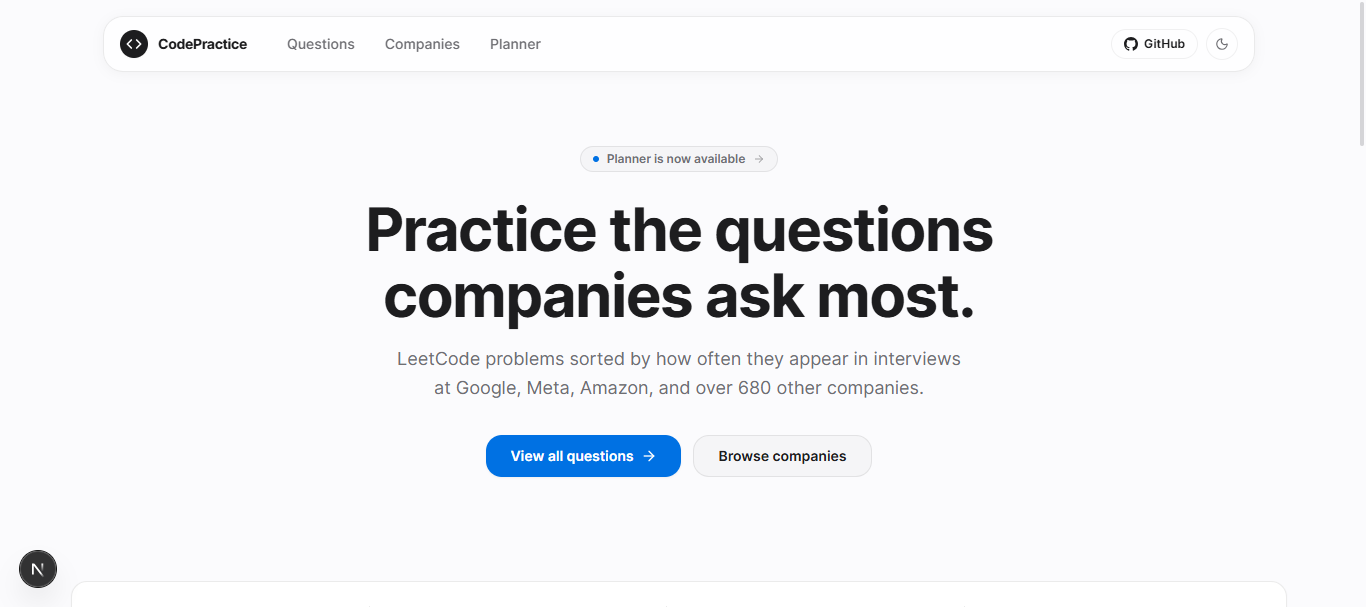
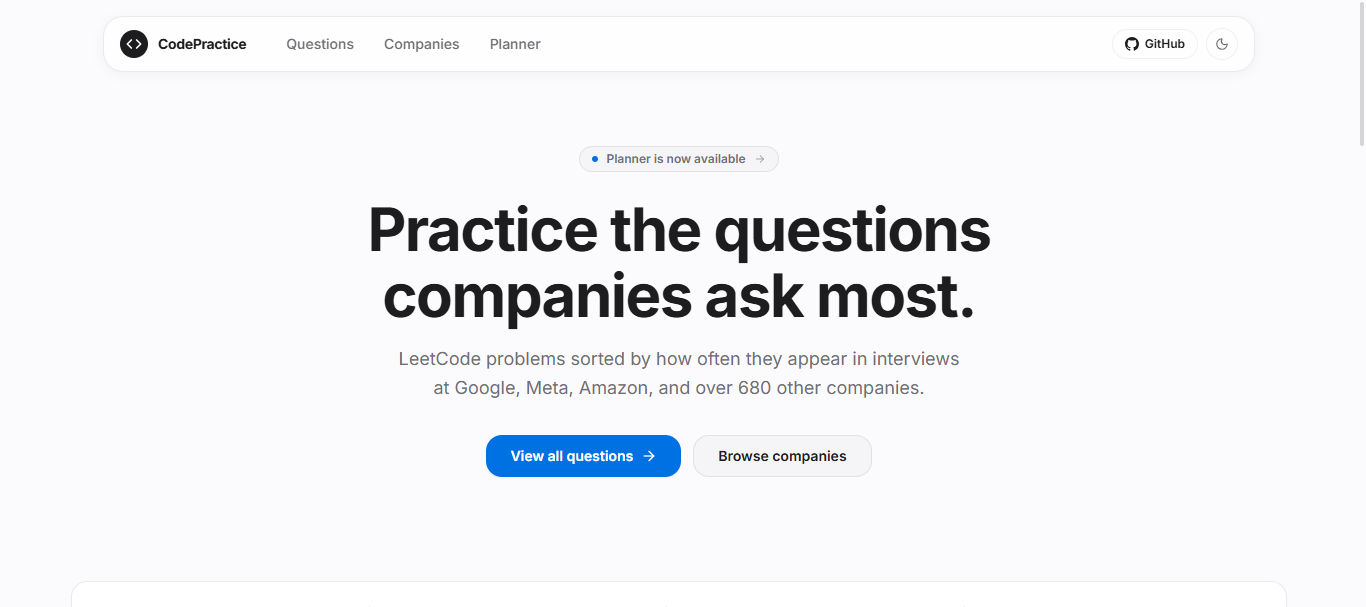
chore: navbar, planner

diff --git a/codepractice/components/Navbar.tsx b/codepractice/components/Navbar.tsx
@@ -2,16 +2,10 @@
 
 import Link from "next/link";
 import { usePathname } from "next/navigation";
-import { Code, Moon, Sun } from "lucide-react";
+import { Code, Moon, Sun, X } from "lucide-react";
 import { useTheme } from "next-themes";
-import { useEffect, useState } from "react";
+import { useEffect, useState, useRef } from "react";
 import { cn } from "@/lib/utils";
-
-const navItems = [
-  { name: "Questions", href: "/explore" },
-  { name: "Companies", href: "/companies" },
-  { name: "Planner",   href: "/planner" },
-];
 
 function GithubIcon({ className = "h-3.5 w-3.5" }: { className?: string }) {
   return (
@@ -25,15 +19,49 @@ export default function Navbar() {
   const pathname = usePathname();
   const { theme, setTheme } = useTheme();
   const [mounted, setMounted] = useState(false);
+  const [showRoadmap, setShowRoadmap] = useState(false);
+  const roadmapRef = useRef<HTMLDivElement>(null);
 
   useEffect(() => {
     setMounted(true);
   }, []);
 
+  // Close roadmap popover on route change
+  useEffect(() => {
+    setShowRoadmap(false);
+  }, [pathname]);
+
+  // Robust document-level click outside & escape listener
+  useEffect(() => {
+    if (!showRoadmap) return;
+
+    function handlePointerDown(e: MouseEvent | TouchEvent) {
+      if (roadmapRef.current && !roadmapRef.current.contains(e.target as Node)) {
+        setShowRoadmap(false);
+      }
+    }
+
+    function handleKeyDown(e: KeyboardEvent) {
+      if (e.key === "Escape") {
+        setShowRoadmap(false);
+      }
+    }
+
+    document.addEventListener("mousedown", handlePointerDown);
+    document.addEventListener("touchstart", handlePointerDown);
+    document.addEventListener("keydown", handleKeyDown);
+
+    return () => {
+      document.removeEventListener("mousedown", handlePointerDown);
+      document.removeEventListener("touchstart", handlePointerDown);
+      document.removeEventListener("keydown", handleKeyDown);
+    };
+  }, [showRoadmap]);
+
   return (
     <header className="fixed top-3 sm:top-4 inset-x-0 mx-auto z-50 w-[calc(100%-1.5rem)] sm:w-[calc(100%-2rem)] max-w-6xl transition-all">
       <nav className="h-13 sm:h-14 px-3 sm:px-4 flex items-center justify-between rounded-2xl border border-black/[0.08] dark:border-white/[0.12] bg-white/85 dark:bg-[#18181b]/85 backdrop-blur-xl shadow-[0_2px_12px_rgba(0,0,0,0.04)] dark:shadow-[0_4px_20px_rgba(0,0,0,0.35)] transition-colors">
-        {/* Left: Brand + Nav links immediately adjacent */}
+        {/* Left: Brand + Nav links */}
         <div className="flex items-center">
           <Link 
             href="/" 
@@ -48,23 +76,93 @@ export default function Navbar() {
           </Link>
 
           <div className="ml-4 sm:ml-7 flex items-center gap-0.5 sm:gap-1.5">
-            {navItems.map((item) => {
-              const isActive = pathname === item.href || (item.href !== "/" && pathname.startsWith(item.href));
-              return (
-                <Link
-                  key={item.name}
-                  href={item.href}
-                  className={cn(
-                    "px-3 py-1.5 rounded-xl text-xs sm:text-sm font-medium transition-colors select-none",
-                    isActive
-                      ? "text-foreground font-semibold bg-black/[0.05] dark:bg-white/[0.08]"
-                      : "text-muted-foreground hover:text-foreground hover:bg-black/[0.03] dark:hover:bg-white/[0.04]"
-                  )}
-                >
-                  {item.name}
-                </Link>
-              );
-            })}
+            <Link
+              href="/explore"
+              className={cn(
+                "px-3 py-1.5 rounded-xl text-xs sm:text-sm font-medium transition-colors select-none",
+                pathname === "/explore"
+                  ? "text-foreground font-semibold bg-black/[0.05] dark:bg-white/[0.08]"
+                  : "text-muted-foreground hover:text-foreground hover:bg-black/[0.03] dark:hover:bg-white/[0.04]"
+              )}
+            >
+              Questions
+            </Link>
+
+            {/* Roadmap element next to Questions */}
+            <div ref={roadmapRef} className="relative">
+              <button
+                onClick={() => setShowRoadmap(v => !v)}
+                className={cn(
+                  "px-2.5 sm:px-3 py-1.5 rounded-xl text-xs sm:text-sm font-medium transition-colors select-none flex items-center gap-1.5 cursor-pointer",
+                  showRoadmap || pathname === "/roadmap"
+                    ? "text-foreground font-semibold bg-black/[0.05] dark:bg-white/[0.08]"
+                    : "text-muted-foreground hover:text-foreground hover:bg-black/[0.03] dark:hover:bg-white/[0.04]"
+                )}
+                title="Roadmap (under development)"
+                aria-label="Roadmap (under development)"
+                aria-expanded={showRoadmap}
+              >
+                <span>Roadmap</span>
+                <span className="text-[10px] font-semibold px-1.5 py-0.2 rounded-full bg-secondary border border-border text-muted-foreground hidden sm:inline">
+                  Soon
+                </span>
+              </button>
+
+              {showRoadmap && (
+                <div className="absolute left-0 top-full mt-2 w-72 sm:w-80 apple-card p-4 shadow-2xl border border-border z-50 animate-in fade-in zoom-in-95 duration-150">
+                  <div className="space-y-2.5">
+                    <div className="flex items-center justify-between">
+                      <div className="flex items-center gap-1.5">
+                        <span className="h-2 w-2 rounded-full bg-signal-medium animate-pulse" />
+                        <span className="text-xs font-bold text-foreground">Roadmap</span>
+                      </div>
+                      <div className="flex items-center gap-1.5">
+                        <span className="text-[10px] font-semibold px-2 py-0.5 rounded-md bg-secondary text-muted-foreground border border-border">
+                          In progress
+                        </span>
+                        <button
+                          onClick={() => setShowRoadmap(false)}
+                          className="p-1 rounded-md text-muted-foreground hover:text-foreground hover:bg-secondary transition-colors"
+                          aria-label="Close roadmap dialog"
+                        >
+                          <X className="h-3 w-3" />
+                        </button>
+                      </div>
+                    </div>
+                    <p className="text-xs font-semibold text-foreground">
+                      Under development, more updates to come
+                    </p>
+                    <p className="text-xs text-muted-foreground leading-relaxed">
+                      We are working on dedicated practice modules for system design and computer science fundamentals.
+                    </p>
+                  </div>
+                </div>
+              )}
+            </div>
+
+            <Link
+              href="/companies"
+              className={cn(
+                "px-3 py-1.5 rounded-xl text-xs sm:text-sm font-medium transition-colors select-none",
+                pathname.startsWith("/companies") || pathname.startsWith("/company")
+                  ? "text-foreground font-semibold bg-black/[0.05] dark:bg-white/[0.08]"
+                  : "text-muted-foreground hover:text-foreground hover:bg-black/[0.03] dark:hover:bg-white/[0.04]"
+              )}
+            >
+              Companies
+            </Link>
+
+            <Link
+              href="/planner"
+              className={cn(
+                "px-3 py-1.5 rounded-xl text-xs sm:text-sm font-medium transition-colors select-none",
+                pathname.startsWith("/planner")
+                  ? "text-foreground font-semibold bg-black/[0.05] dark:bg-white/[0.08]"
+                  : "text-muted-foreground hover:text-foreground hover:bg-black/[0.03] dark:hover:bg-white/[0.04]"
+              )}
+            >
+              Planner
+            </Link>
           </div>
         </div>
 

diff --git a/codepractice/app/planner/page.tsx b/codepractice/app/planner/page.tsx
@@ -360,7 +360,7 @@ export default function PlannerPage() {
   return (
     <div className="flex flex-col h-[calc(100vh-5.5rem)] overflow-hidden bg-[#f7f7f8] dark:bg-background">
       {/* Sub-header */}
-      <div className="flex items-center justify-between px-4 py-2 bg-white dark:bg-[#111113] border-b border-border/60 shrink-0 gap-2">
+      <div className="flex items-center justify-between px-4 sm:px-6 py-2.5 bg-white dark:bg-[#111113] border-b border-border/60 shrink-0 gap-2 w-full">
         {/* Date Navigator */}
         <div className="flex items-center gap-1.5 relative min-w-0">
           <Calendar className="h-4 w-4 text-muted-foreground shrink-0" />
@@ -561,7 +561,7 @@ function NotesTile({
 // ── Shared: Panel card ─────────────────────────────────────────────────────
 function Panel({ title, icon, children, className, headerBg }: { title?: string, icon?: React.ReactNode, children: React.ReactNode, className?: string, headerBg?: string }) {
   return (
-    <div className={cn("flex flex-col rounded-xl border border-border/60 bg-white dark:bg-[#1c1c1e] shadow-sm overflow-hidden min-w-0", className)}>
+    <div className={cn("flex flex-col rounded-xl border border-border/60 bg-white dark:bg-[#1c1c1e] shadow-sm overflow-hidden min-w-0 w-full", className)}>
       {title && (
         <div className={cn("flex items-center gap-2 px-4 py-3 border-b border-border/40 shrink-0", headerBg ?? "bg-white/80 dark:bg-[#242428]")}>
           {icon}
@@ -581,8 +581,8 @@ function DayView({ cursor }: { cursor: Date }) {
   const dayNoteKey = `day-notes-${dateKey}`;
 
   return (
-    <div className="p-5 grid grid-cols-1 md:grid-cols-3 gap-4 items-start max-w-[1248px] mx-auto">
-      <div className="md:col-span-2 space-y-4">
+    <div className="p-4 sm:p-6 grid grid-cols-1 lg:grid-cols-3 gap-4 sm:gap-6 items-start w-full">
+      <div className="lg:col-span-2 space-y-4">
         <Panel title="Tasks" icon={<Calendar className="h-4 w-4 text-blue-500"/>} headerBg="bg-blue-50/60 dark:bg-blue-500/10">
           <TaskList date={dateKey}/>
         </Panel>
@@ -615,8 +615,8 @@ function WeekView({ cursor, cardSize }: { cursor: Date; cardSize: "compact" | "n
   const minCardH = cardSize === "compact" ? "min-h-[200px]" : cardSize === "spacious" ? "min-h-[380px]" : "min-h-[280px]";
 
   return (
-    <div className="p-4">
-      <div className={cn("grid gap-4 w-full min-w-0 auto-rows-min", gridCols)}>
+    <div className="p-4 sm:p-6 w-full">
+      <div className={cn("grid gap-4 sm:gap-5 w-full min-w-0 auto-rows-min", gridCols)}>
         {/* Weekly Priority */}
         <Panel title="Priority" headerBg="bg-rose-50/50 dark:bg-rose-500/10" className={minCardH}>
           <NotesTile noteKey={priorityKey}
@@ -650,8 +650,8 @@ function WeekView({ cursor, cardSize }: { cursor: Date; cardSize: "compact" | "n
 function MonthView({ cursor }: { cursor: Date }) {
   const mk = mmKey(cursor);
   return (
-    <div className="p-5 space-y-4 max-w-[1248px] mx-auto">
-      <div className="grid grid-cols-1 md:grid-cols-3 gap-4">
+    <div className="p-4 sm:p-6 space-y-4 sm:space-y-6 w-full">
+      <div className="grid grid-cols-1 md:grid-cols-3 gap-4 sm:gap-6">
         <Panel title="Focus" headerBg="bg-slate-50 dark:bg-secondary">
           <NotesTile noteKey={`month-focus-${mk}`}
             placeholder="What will you focus on this month?" minH="min-h-[200px]"/>
@@ -680,8 +680,8 @@ function QuarterView({ cursor }: { cursor: Date }) {
   const qs = qStart(cursor);
   const months = [0,1,2].map(i => addMonths(qs,i));
   return (
-    <div className="p-5 max-w-[1248px] mx-auto">
-      <div className="grid grid-cols-1 md:grid-cols-3 gap-4">
+    <div className="p-4 sm:p-6 w-full">
+      <div className="grid grid-cols-1 md:grid-cols-3 gap-4 sm:gap-6 w-full">
         {months.map(m => {
           const mk = mmKey(m);
           return (
@@ -704,15 +704,15 @@ function YearView({ cursor }: { cursor: Date }) {
   const months = Array.from({length:12}, (_,i) => new Date(year,i,1));
   const now    = new Date();
   return (
-    <div className="p-5 max-w-[1248px] mx-auto">
-      <div className="grid grid-cols-2 sm:grid-cols-3 lg:grid-cols-4 gap-4">
+    <div className="p-4 sm:p-6 w-full">
+      <div className="grid grid-cols-1 sm:grid-cols-2 md:grid-cols-3 lg:grid-cols-4 gap-4 sm:gap-5 w-full">
         {months.map(m => {
           const mk      = mmKey(m);
           const isCur   = m.getFullYear()===now.getFullYear() && m.getMonth()===now.getMonth();
           return (
             <div key={mk}
               className={cn(
-                "rounded-xl border bg-blue-50/50 dark:bg-blue-500/5 p-4 flex flex-col gap-2.5 min-h-[150px] transition-all hover:shadow-sm",
+                "rounded-xl border bg-blue-50/50 dark:bg-blue-500/5 p-4 sm:p-5 flex flex-col gap-2.5 min-h-[160px] transition-all hover:shadow-sm",
                 isCur ? "border-primary/40 ring-2 ring-primary/15" : "border-blue-100/80 dark:border-blue-500/10"
               )}
             >
@@ -806,7 +806,7 @@ function DashboardView({ cursor }: { cursor: Date }) {
           <button onClick={() => handleAdd('pomodoro')} className="w-full text-left px-3 py-2 text-sm hover:bg-secondary rounded-lg transition-colors">Pomodoro</button>
         </div>
       )}
-      <div ref={containerRef} className="flex-1 w-full h-[800px] overflow-y-auto p-4 pt-4">
+      <div ref={containerRef} className="flex-1 w-full h-full min-h-[700px] overflow-y-auto p-4 sm:p-6">
         {currentBlocks.length === 0 ? (
           <div className="flex flex-col items-center justify-center h-full text-muted-foreground pb-20 pointer-events-none">
             <div className="p-4 rounded-full bg-secondary mb-4 shadow-[0_1px_2px_rgba(0,0,0,0.02),0_4px_16px_rgba(0,0,0,0.03)] border border-black/5 dark:border-white/5">

diff --git a/codepractice/app/page.tsx b/codepractice/app/page.tsx
@@ -116,56 +116,6 @@ export default function LandingPage() {
         <FeatureCarousel />
       </section>
 
-      {/* Upcoming updates */}
-      <section className="max-w-7xl mx-auto px-4 sm:px-6 lg:px-8 space-y-6">
-        <div className="text-center space-y-1.5 max-w-xl mx-auto">
-          <div className="inline-flex items-center gap-2 px-3 py-1 rounded-full bg-secondary border border-border text-xs font-semibold text-muted-foreground">
-            <span className="h-1.5 w-1.5 rounded-full bg-signal-medium" />
-            <span>Roadmap</span>
-          </div>
-          <h2 className="text-2xl sm:text-3xl font-bold tracking-tight text-foreground">
-            Upcoming updates
-          </h2>
-          <p className="text-muted-foreground text-sm leading-relaxed">
-            We are expanding CodePractice beyond coding questions to cover the full technical interview loop.
-          </p>
-        </div>
-
-        <div className="grid grid-cols-1 md:grid-cols-2 gap-6">
-          <div className="apple-card p-6 sm:p-7 space-y-3 flex flex-col justify-between">
-            <div className="space-y-2">
-              <div className="flex items-center justify-between">
-                <h3 className="text-base font-bold text-foreground tracking-tight">
-                  System design
-                </h3>
-                <span className="text-[11px] font-semibold px-2 py-0.5 rounded-md bg-primary/10 text-primary border border-primary/20">
-                  In progress
-                </span>
-              </div>
-              <p className="text-sm text-muted-foreground leading-relaxed">
-                Core architectural patterns, scalability trade-offs, and deep dives into real system design interview questions asked at top tech companies.
-              </p>
-            </div>
-          </div>
-
-          <div className="apple-card p-6 sm:p-7 space-y-3 flex flex-col justify-between">
-            <div className="space-y-2">
-              <div className="flex items-center justify-between">
-                <h3 className="text-base font-bold text-foreground tracking-tight">
-                  Computer fundamentals
-                </h3>
-                <span className="text-[11px] font-semibold px-2 py-0.5 rounded-md bg-secondary text-muted-foreground border border-border">
-                  Coming soon
-                </span>
-              </div>
-              <p className="text-sm text-muted-foreground leading-relaxed">
-                Curated revision modules and common interview questions for operating systems, networking protocols, databases, and concurrency.
-              </p>
-            </div>
-          </div>
-        </div>
-      </section>
-
       {/* Call to action */}
       <section className="max-w-7xl mx-auto px-4 sm:px-6 lg:px-8">
         <div className="apple-card p-8 sm:p-12 text-center space-y-5 bg-gradient-to-b from-card to-secondary/40">

diff --git a/codepractice/app/roadmap/page.tsx b/codepractice/app/roadmap/page.tsx
@@ -1,0 +1,42 @@
+import Link from "next/link";
+import { ArrowLeft, Clock } from "lucide-react";
+
+export default function RoadmapPage() {
+  return (
+    <div className="max-w-4xl mx-auto px-4 sm:px-6 lg:px-8 py-12 pb-24 space-y-8">
+      {/* Back button */}
+      <div>
+        <Link 
+          href="/explore" 
+          className="inline-flex items-center gap-1.5 text-xs font-semibold text-muted-foreground hover:text-foreground transition-colors group"
+        >
+          <ArrowLeft className="h-3.5 w-3.5 group-hover:-translate-x-0.5 transition-transform" />
+          <span>Back to Questions</span>
+        </Link>
+      </div>
+
+      {/* Main Roadmap Card */}
+      <div className="apple-card p-8 sm:p-12 text-center space-y-6">
+        <div className="inline-flex items-center gap-2 px-3 py-1 rounded-full bg-secondary border border-border text-xs font-semibold text-foreground">
+          <span className="h-1.5 w-1.5 rounded-full bg-signal-medium animate-pulse" />
+          <span>Roadmap</span>
+        </div>
+
+        <div className="space-y-3 max-w-lg mx-auto">
+          <h1 className="text-3xl sm:text-4xl font-bold tracking-tight text-foreground">
+            Under development, more updates to come
+          </h1>
+          <p className="text-muted-foreground text-sm sm:text-base leading-relaxed">
+            We are working on dedicated modules for system design and computer science fundamentals. We'll be working on this section in upcoming updates.
+          </p>
+        </div>
+
+        <div className="pt-4 flex justify-center">
+          <Link href="/explore" className="btn-primary text-sm px-6 py-2.5">
+            Browse Questions
+          </Link>
+        </div>
+      </div>
+    </div>
+  );
+}
